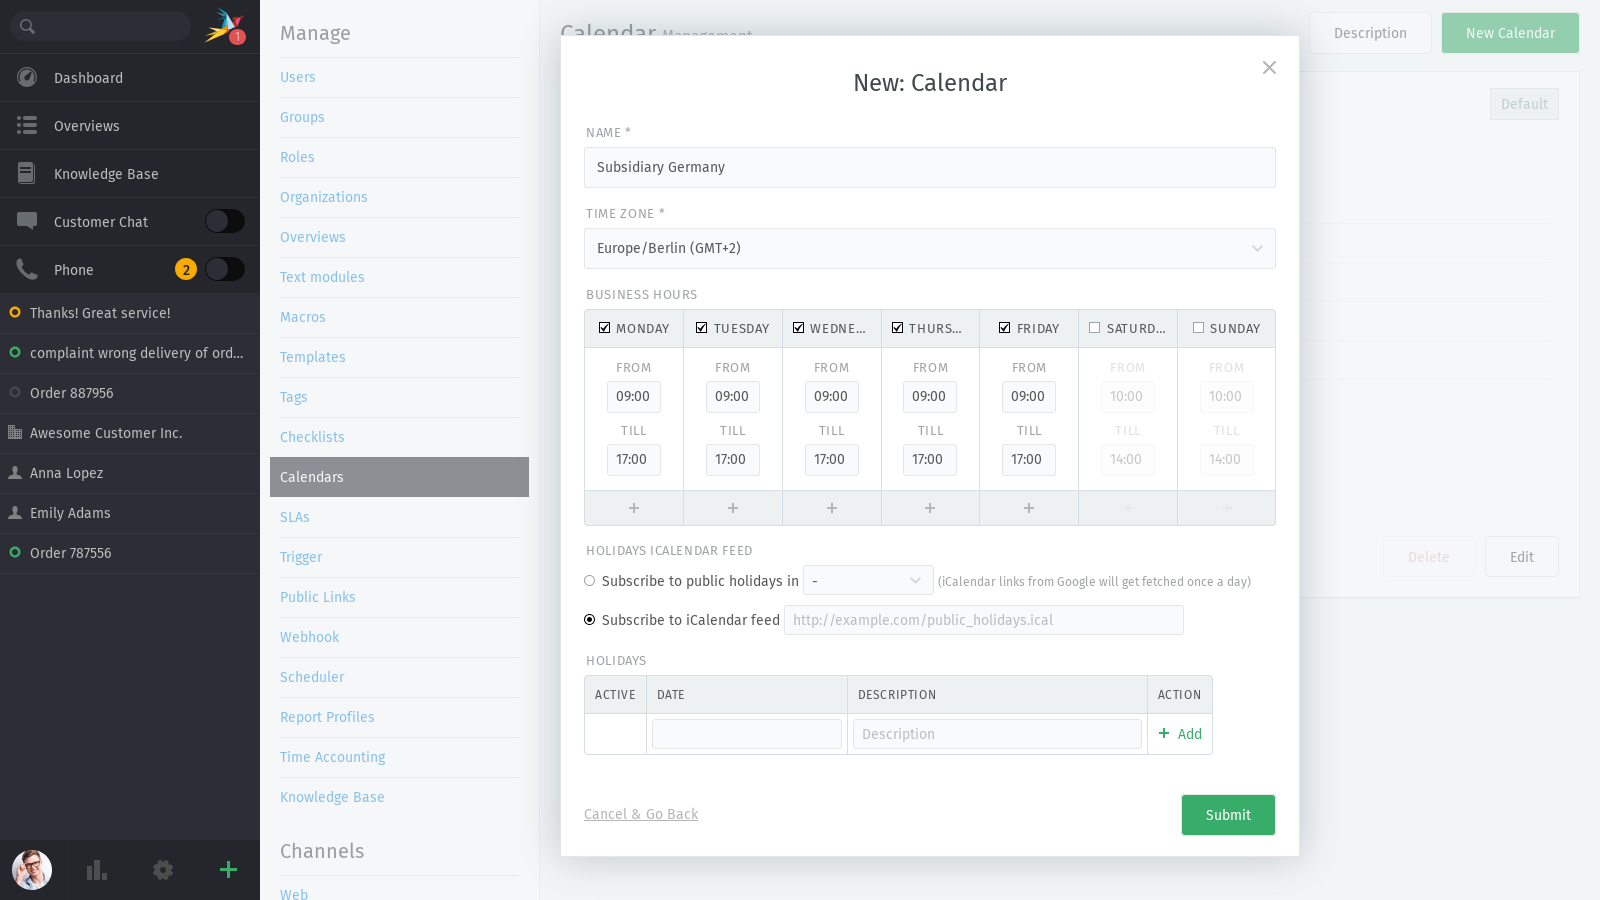
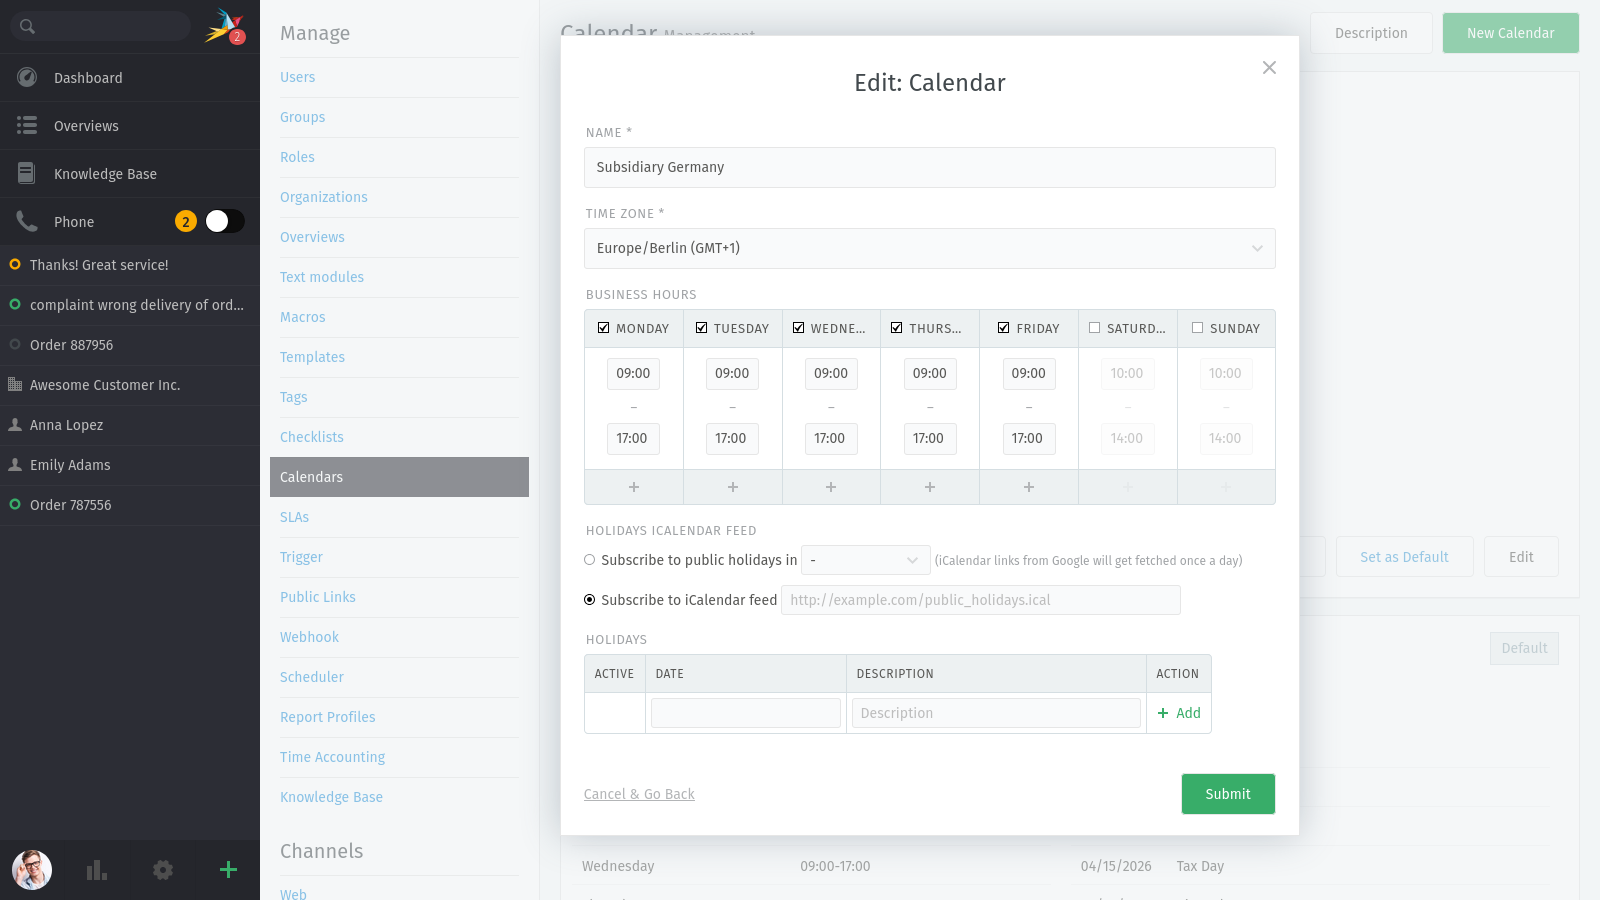
Fixes #1110 - Overhaul 'Manage > Calendars'

diff --git a/manage/calendars.rst b/manage/calendars.rst
@@ -1,43 +1,80 @@
 Calendars
 =========
 
-A calendar is required to:
+A calendar defines your business hours and holidays. You can even create multiple
+calendars for different customers. To access the calendar settings under
+*Manage > Calendars*, the permission ``admin.calendar`` is required.
+A configured calendar is required for some features like
+:doc:`slas`, time-sensitive automation with :doc:`triggers <trigger>` or
+:doc:`scheduler jobs <scheduler>` and :doc:`reports <report-profiles>`.
 
-   * automate ticket escalations,
-   * generate reports that only capture activity during business hours, or
-   * set up time-sensitive triggers.
+You can define a default calendar and create specific calendars for customers.
+The connection between customers and calendars are SLAs. In an SLA you
+choose a calendar. Only your opening hours are counted towards an escalation.
+The already created calendars are displayed in a card style and show the most
+important information in the overview.
 
-Define a "standard"-calendar which system-wide is valid. Only in the specified
-business hours, escalation notifications are sent to agents.
-
-If you have customers for which you have to comply with different customer
-business hours, you can create several calendars. The allocation to the customer
-tickets can be adjusted via the SLAs.
-
-
-And this is what it looks like:
+Manage Calendars
+----------------
 
 .. figure:: /images/manage/calendars/calendar-management.png
-
-All created calendars are displayed in the overview.
+   :alt: Screenshot shows Zammad's calendar configuration.
 
 New Calendar
-   Here you can create a new calendar if agents or customers belong to another time zone.
+   To create a new calendar, click the **New Calendar** button on the top right
+   corner.
 
 Delete
-   Just push the delete-button to delete this specific calendar - all SLAs
+   Click the **Delete** button to delete a specific calendar. All SLAs
    assigned to this calendar are automatically assigned to the default calendar.
+   You cannot delete the default calendar.
 
 Set as Default
-   Pressing this button sets this calendar as the default calendar for the
-   entire system.
+   Sets this calendar as the default general calendar. Deleting a calendar
+   referenced by an SLA causes the system to apply the default calendar instead.
 
 Edit
-   Via this button you get to the edit-mask (same mask as in "New Calendar"):
+   The **Edit** button opens the edit dialog (same as for "New Calendar"). The
+   specific configuration options are explained in the next section.
+
+Configure Calendars
+-------------------
 
 .. figure:: /images/manage/calendars/editing-calendars.png
+   :alt: Screenshot shows the calendar configuration dialog.
 
-Determine a name, a time-zone, the business hours to be used for this
-calendar and special holidays. In addition, you can subscribe to the iCalendar,
-which will automatically load all holidays from Google (updated once a day) ...
-and you can add a note.
+Name
+   Name of the calendar. Add a descriptive name to easily identify the calendar.
+   This is especially important if you have multiple calendars for different
+   customers.
+
+Time Zone
+   Set the time zone for this calendar. This should either be the time zone
+   of your business location or - in case of a calendar for SLAs - the time zone
+   on which you agreed with your customer.
+
+Business Hours
+   Add your business hours by adding a start and end time for each time frame
+   of a day. You can define different business hours for each day of the week.
+   To reflect closing times during a day, add another time frame for the same
+   day by clicking the ``+`` button at the bottom of the table (can be done
+   multiple times). Make sure that your time frames do not overlap and that
+   the end time is after the start time. Otherwise, a red frame will notify you
+   that there is an error in your configuration.
+
+Holidays iCalendar Feed
+   Here you can subscribe to an iCalendar feed to automatically fetch holidays.
+   Either choose **Subscribe to public holidays in** and select a country to
+   automatically load the holidays for this country from Google.
+
+   The other option **Subscribe to iCalendar feed** allows you to add a custom
+   iCalendar feed URL.
+   Both options allow you to add custom and/or additional holidays as well, see
+   next section.
+
+Holidays
+   Add additional holidays or custom closing times here. After adding a date and
+   an optional description, make sure to finally click the **+ Add** button to
+   save the entry.
+
+After you configured the calendar, click the **Submit** button to save it.
